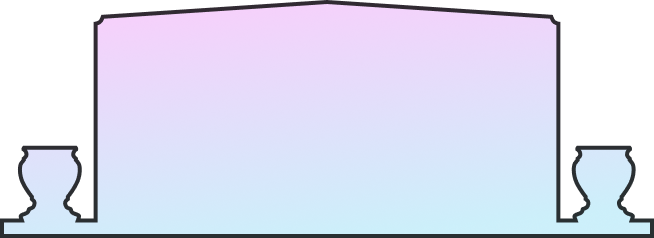
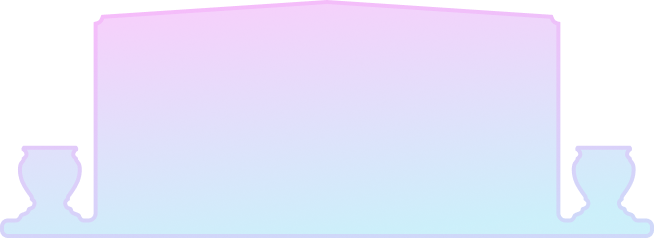
empty state tweaks

Changed region(s): [[0.0, 0.0, 1.0, 1.0]]

diff --git a/src/styles.css b/src/styles.css
@@ -1109,7 +1109,7 @@ body:has(.canvas-layout) .footer-branding {
     height: 32px;
     background: #ddd;
     border-radius: 50%;
-    border: 2px solid #ccc;
+    border: 2px solid #ce0bcb;
 }
 
 /* Memorial Grid Container */
@@ -1739,7 +1739,7 @@ body:has(.canvas-layout) .footer-branding {
     width: 32px;
     height: 32px;
     border-radius: 50%;
-    background: #007bff;
+    background: #fa20f7;
     display: flex;
     align-items: center;
     justify-content: center;
@@ -2111,7 +2111,14 @@ body:has(.canvas-layout) .footer-branding {
 
 .no-projects p {
     font-size: 16px;
-    margin: 0;
+    margin-bottom: 15px;
+}
+
+.no-projects-quote {
+    font-size: 24px !important;
+    margin-bottom: 15px;
+    font-style: italic;
+    font-family: 'Cormorant Infant';
 }
 
 .loading-message {

diff --git a/src/pages/AllProjectsView.js b/src/pages/AllProjectsView.js
@@ -125,8 +125,8 @@ const AllProjectsView = () => {
           {projects.length === 0 ? (
             <div className="no-projects">
               <img src="/images/empty.png" alt="No projects found" className="no-projects-image" />
-              <p>Welcome to the beginning of the end. <a onClick={handleCreateNewProject}>Create your first project</a></p>
-              
+              <p className="no-projects-quote">"A memory in stone is forever"</p>
+              <p><a onClick={handleCreateNewProject}>Create Your First Project</a></p>
             </div>
           ) : (
             projects.map((project) => (
